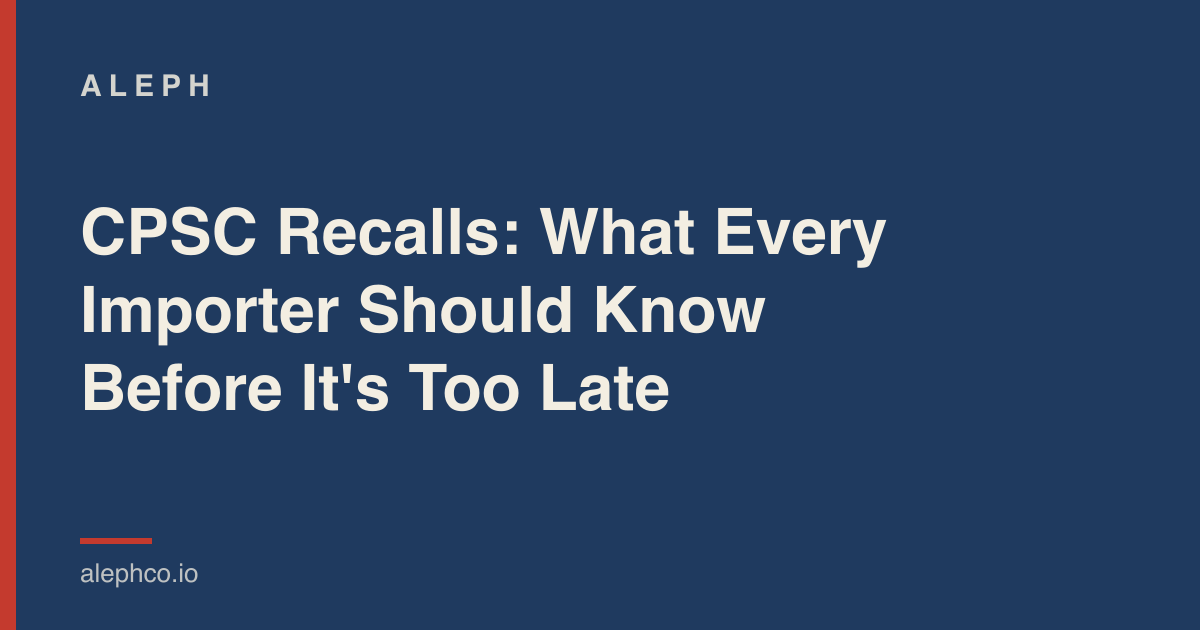
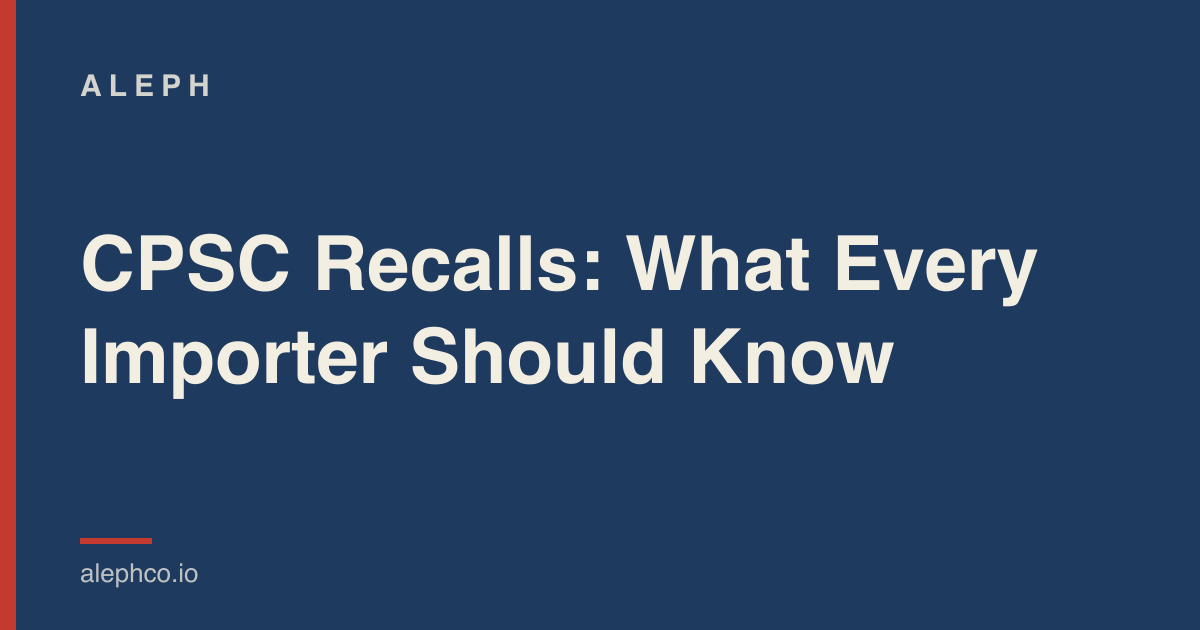
fix(blog): wire the 12 legacy posts to their own share cards
The cards already existed. build-og-cards.mjs was written in session 110
for exactly this problem, and its own header records the symptom:

    $ grep -h 'property="og:image"' blog/*.html | sort | uniq -c
      13   <meta property="og:image" content=".../img/og-default.png">

It rendered a card for all 37 posts. Then only the ONE generated post was
ever wired to its card, and the other twelve kept the shared default for
another six sessions. The asset existed, the problem was solved, and the
fix was never applied — and nothing about that was visible from the
script, which reported success both times it ran.

Every LinkedIn, Slack and Twitter preview of the twelve RANKED posts has
been the same generic image this whole time. That is a distribution
problem, not a decoration one.

⚠ FOUR CARDS WERE STALE and had to be re-rendered first. A legacy card is
generated FROM THE POST'S <title>, and the previous commit shortened four
of those for SERP limits — so cpsc-recalls, multi-regulation,
product-compliance-for-amazon-sellers and manifest-design-system were all
advertising headlines the page no longer carries. That coupling is
invisible unless you open the PNG, so it is now written down beside the
guard.

The guard asserts every post's og:image ends in /img/blog/<slug>.png.
Verified by pointing one post back at og-default — it reports the filename
and names the card it should be using.

Claude-Session: https://claude.ai/code/session_01L9pCtTSJV7YBBgyHj2U2vZ

Changed region(s): [[0.0617, 0.3317, 0.8633, 0.6635]]

diff --git a/blog/manifest-design-system.html b/blog/manifest-design-system.html
@@ -13,7 +13,7 @@
   <meta property="og:description" content="We rebuilt every page of Aleph around a design system inspired by customs forms and shipping receipts. Here's why compliance software should look institutional.">
   <meta property="og:url" content="https://www.alephco.io/blog/manifest-design-system.html">
   <meta property="og:site_name" content="Aleph">
-  <meta property="og:image" content="https://www.alephco.io/img/og-default.png">
+  <meta property="og:image" content="https://www.alephco.io/img/blog/manifest-design-system.png">
   <meta property="og:image:width" content="1200">
   <meta property="og:image:height" content="630">
   <meta property="article:published_time" content="2026-05-05T12:00:00Z">
@@ -23,7 +23,7 @@
   <meta name="twitter:card" content="summary_large_image">
   <meta name="twitter:title" content="The Manifest Redesign: Why We Made Aleph Look Like a Customs Form">
   <meta name="twitter:description" content="We rebuilt every page of Aleph around a design system inspired by customs forms and shipping receipts. Here's why compliance software should look institutional.">
-  <meta name="twitter:image" content="https://www.alephco.io/img/og-default.png">
+  <meta name="twitter:image" content="https://www.alephco.io/img/blog/manifest-design-system.png">
 
   <!-- Structured Data -->
   <script type="application/ld+json">

diff --git a/blog/product-compliance-for-amazon-sellers.html b/blog/product-compliance-for-amazon-sellers.html
@@ -13,7 +13,7 @@
   <meta property="og:description" content="What FBA and FBM sellers need for Amazon compliance — CPCs, Prop 65 warnings, SDS sheets — and how to avoid listing rejections.">
   <meta property="og:url" content="https://www.alephco.io/blog/product-compliance-for-amazon-sellers.html">
   <meta property="og:site_name" content="Aleph">
-  <meta property="og:image" content="https://www.alephco.io/img/og-default.png">
+  <meta property="og:image" content="https://www.alephco.io/img/blog/product-compliance-for-amazon-sellers.png">
   <meta property="og:image:width" content="1200">
   <meta property="og:image:height" content="630">
   <meta property="article:published_time" content="2026-06-02T12:00:00Z">
@@ -23,7 +23,7 @@
   <meta name="twitter:card" content="summary_large_image">
   <meta name="twitter:title" content="Product Compliance for Amazon Sellers: Documents You Actually Need (2026)">
   <meta name="twitter:description" content="What FBA and FBM sellers need for Amazon compliance — CPCs, Prop 65 warnings, SDS sheets — and how to avoid listing rejections.">
-  <meta name="twitter:image" content="https://www.alephco.io/img/og-default.png">
+  <meta name="twitter:image" content="https://www.alephco.io/img/blog/product-compliance-for-amazon-sellers.png">
 
   <!-- Structured Data -->
   <script type="application/ld+json">

diff --git a/blog/multi-regulation-compliance-framework.html b/blog/multi-regulation-compliance-framework.html
@@ -13,7 +13,7 @@
   <meta property="og:description" content="Same product, different rules in 15+ states. A practical framework for managing multi-state compliance, from PFAS to packaging laws.">
   <meta property="og:url" content="https://www.alephco.io/blog/multi-regulation-compliance-framework.html">
   <meta property="og:site_name" content="Aleph">
-  <meta property="og:image" content="https://www.alephco.io/img/og-default.png">
+  <meta property="og:image" content="https://www.alephco.io/img/blog/multi-regulation-compliance-framework.png">
   <meta property="og:image:width" content="1200">
   <meta property="og:image:height" content="630">
   <meta property="article:published_time" content="2026-06-09T12:00:00Z">
@@ -23,7 +23,7 @@
   <meta name="twitter:card" content="summary_large_image">
   <meta name="twitter:title" content="Multi-State Product Compliance: A Framework for US Importers (2026)">
   <meta name="twitter:description" content="Same product, different rules in 15+ states. A practical framework for managing multi-state compliance, from PFAS to packaging laws.">
-  <meta name="twitter:image" content="https://www.alephco.io/img/og-default.png">
+  <meta name="twitter:image" content="https://www.alephco.io/img/blog/multi-regulation-compliance-framework.png">
 
   <!-- Structured Data -->
   <script type="application/ld+json">

diff --git a/blog/spreadsheets-failing-compliance.html b/blog/spreadsheets-failing-compliance.html
@@ -13,7 +13,7 @@
   <meta property="og:description" content="Spreadsheets can't track document expiry, generate certificates, or cite the exact regulation behind each requirement. See what breaks first.">
   <meta property="og:url" content="https://www.alephco.io/blog/spreadsheets-failing-compliance.html">
   <meta property="og:site_name" content="Aleph">
-  <meta property="og:image" content="https://www.alephco.io/img/og-default.png">
+  <meta property="og:image" content="https://www.alephco.io/img/blog/spreadsheets-failing-compliance.png">
   <meta property="og:image:width" content="1200">
   <meta property="og:image:height" content="630">
   <meta property="article:published_time" content="2026-05-12T12:00:00Z">
@@ -23,7 +23,7 @@
   <meta name="twitter:card" content="summary_large_image">
   <meta name="twitter:title" content="Why Spreadsheets Fail Product Compliance Teams | Aleph">
   <meta name="twitter:description" content="Spreadsheets can't track document expiry, generate certificates, or cite the exact regulation behind each requirement. See what breaks first.">
-  <meta name="twitter:image" content="https://www.alephco.io/img/og-default.png">
+  <meta name="twitter:image" content="https://www.alephco.io/img/blog/spreadsheets-failing-compliance.png">
 
   <!-- Structured Data -->
   <script type="application/ld+json">

diff --git a/blog/fsvp-guide-for-importers.html b/blog/fsvp-guide-for-importers.html
@@ -13,7 +13,7 @@
   <meta property="og:description" content="What the FDA's Foreign Supplier Verification Program requires from food importers. Plain-language guide to compliance, inspections, and records.">
   <meta property="og:url" content="https://www.alephco.io/blog/fsvp-guide-for-importers.html">
   <meta property="og:site_name" content="Aleph">
-  <meta property="og:image" content="https://www.alephco.io/img/og-default.png">
+  <meta property="og:image" content="https://www.alephco.io/img/blog/fsvp-guide-for-importers.png">
   <meta property="og:image:width" content="1200">
   <meta property="og:image:height" content="630">
   <meta property="article:published_time" content="2026-04-14T12:00:00Z">
@@ -23,7 +23,7 @@
   <meta name="twitter:card" content="summary_large_image">
   <meta name="twitter:title" content="FSVP Requirements: A Guide for US Food Importers (2026)">
   <meta name="twitter:description" content="What the FDA's Foreign Supplier Verification Program requires from food importers. Plain-language guide to compliance, inspections, and records.">
-  <meta name="twitter:image" content="https://www.alephco.io/img/og-default.png">
+  <meta name="twitter:image" content="https://www.alephco.io/img/blog/fsvp-guide-for-importers.png">
 
   <!-- Structured Data -->
   <script type="application/ld+json">

diff --git a/blog/fsvp-vs-haccp.html b/blog/fsvp-vs-haccp.html
@@ -13,7 +13,7 @@
   <meta property="og:description" content="FSVP and HACCP are not the same thing — and having one doesn't exempt you from the other. Here's how they work together and what FDA expects from importers.">
   <meta property="og:url" content="https://www.alephco.io/blog/fsvp-vs-haccp.html">
   <meta property="og:site_name" content="Aleph">
-  <meta property="og:image" content="https://www.alephco.io/img/og-default.png">
+  <meta property="og:image" content="https://www.alephco.io/img/blog/fsvp-vs-haccp.png">
   <meta property="og:image:width" content="1200">
   <meta property="og:image:height" content="630">
   <meta property="article:published_time" content="2026-06-16T12:00:00Z">
@@ -23,7 +23,7 @@
   <meta name="twitter:card" content="summary_large_image">
   <meta name="twitter:title" content="FSVP vs HACCP: What Food Importers Need to Understand (2026)">
   <meta name="twitter:description" content="FSVP and HACCP are not the same thing — and having one doesn't exempt you from the other. Here's how they work together and what FDA expects from importers.">
-  <meta name="twitter:image" content="https://www.alephco.io/img/og-default.png">
+  <meta name="twitter:image" content="https://www.alephco.io/img/blog/fsvp-vs-haccp.png">
 
   <!-- Structured Data -->
   <script type="application/ld+json">

diff --git a/blog/cpsc-recalls-for-importers.html b/blog/cpsc-recalls-for-importers.html
@@ -13,7 +13,7 @@
   <meta property="og:description" content="CPSC recalls hit importers harder than manufacturers. Learn the recall process, your legal liability, and how to protect your business.">
   <meta property="og:url" content="https://www.alephco.io/blog/cpsc-recalls-for-importers.html">
   <meta property="og:site_name" content="Aleph">
-  <meta property="og:image" content="https://www.alephco.io/img/og-default.png">
+  <meta property="og:image" content="https://www.alephco.io/img/blog/cpsc-recalls-for-importers.png">
   <meta property="og:image:width" content="1200">
   <meta property="og:image:height" content="630">
   <meta property="article:published_time" content="2026-05-19T12:00:00Z">
@@ -23,7 +23,7 @@
   <meta name="twitter:card" content="summary_large_image">
   <meta name="twitter:title" content="CPSC Recalls: What Every Importer Should Know Before It's Too Late">
   <meta name="twitter:description" content="CPSC recalls hit importers harder than manufacturers. Learn the recall process, your legal liability, and how to protect your business.">
-  <meta name="twitter:image" content="https://www.alephco.io/img/og-default.png">
+  <meta name="twitter:image" content="https://www.alephco.io/img/blog/cpsc-recalls-for-importers.png">
 
   <!-- Structured Data -->
   <script type="application/ld+json">

diff --git a/blog/how-to-choose-testing-lab.html b/blog/how-to-choose-testing-lab.html
@@ -13,7 +13,7 @@
   <meta property="og:description" content="How to pick the right compliance testing lab for your products. Accreditations, specializations, cost, and a checklist before you send samples.">
   <meta property="og:url" content="https://www.alephco.io/blog/how-to-choose-testing-lab.html">
   <meta property="og:site_name" content="Aleph">
-  <meta property="og:image" content="https://www.alephco.io/img/og-default.png">
+  <meta property="og:image" content="https://www.alephco.io/img/blog/how-to-choose-testing-lab.png">
   <meta property="og:image:width" content="1200">
   <meta property="og:image:height" content="630">
   <meta property="article:published_time" content="2026-05-26T12:00:00Z">
@@ -23,7 +23,7 @@
   <meta name="twitter:card" content="summary_large_image">
   <meta name="twitter:title" content="How to Choose a Testing Lab (Without Getting Burned)">
   <meta name="twitter:description" content="How to pick the right compliance testing lab for your products. Accreditations, specializations, cost, and a checklist before you send samples.">
-  <meta name="twitter:image" content="https://www.alephco.io/img/og-default.png">
+  <meta name="twitter:image" content="https://www.alephco.io/img/blog/how-to-choose-testing-lab.png">
 
   <!-- Structured Data -->
   <script type="application/ld+json">

diff --git a/blog/pfas-regulations-guide.html b/blog/pfas-regulations-guide.html
@@ -13,7 +13,7 @@
   <meta property="og:description" content="15+ states now regulate PFAS in consumer products. Guide for importers on disclosure rules, affected categories, and compliance tracking.">
   <meta property="og:url" content="https://www.alephco.io/blog/pfas-regulations-guide.html">
   <meta property="og:site_name" content="Aleph">
-  <meta property="og:image" content="https://www.alephco.io/img/og-default.png">
+  <meta property="og:image" content="https://www.alephco.io/img/blog/pfas-regulations-guide.png">
   <meta property="og:image:width" content="1200">
   <meta property="og:image:height" content="630">
   <meta property="article:published_time" content="2026-05-05T12:00:00Z">
@@ -23,7 +23,7 @@
   <meta name="twitter:card" content="summary_large_image">
   <meta name="twitter:title" content="PFAS Regulations for Importers: State Laws and Compliance">
   <meta name="twitter:description" content="15+ states now regulate PFAS in consumer products. Guide for importers on disclosure rules, affected categories, and compliance tracking.">
-  <meta name="twitter:image" content="https://www.alephco.io/img/og-default.png">
+  <meta name="twitter:image" content="https://www.alephco.io/img/blog/pfas-regulations-guide.png">
 
   <!-- Structured Data -->
   <script type="application/ld+json">

diff --git a/blog/cpc-certificate-guide.html b/blog/cpc-certificate-guide.html
@@ -13,7 +13,7 @@
   <meta property="og:description" content="Step-by-step guide to CPSIA Children's Product Certificates. What's required, which tests you need, and how to generate a valid CPC.">
   <meta property="og:url" content="https://www.alephco.io/blog/cpc-certificate-guide.html">
   <meta property="og:site_name" content="Aleph">
-  <meta property="og:image" content="https://www.alephco.io/img/og-default.png">
+  <meta property="og:image" content="https://www.alephco.io/img/blog/cpc-certificate-guide.png">
   <meta property="og:image:width" content="1200">
   <meta property="og:image:height" content="630">
   <meta property="article:published_time" content="2026-04-21T12:00:00Z">
@@ -23,7 +23,7 @@
   <meta name="twitter:card" content="summary_large_image">
   <meta name="twitter:title" content="Children's Product Certificate (CPC): Importer Guide 2026">
   <meta name="twitter:description" content="Step-by-step guide to CPSIA Children's Product Certificates. What's required, which tests you need, and how to generate a valid CPC.">
-  <meta name="twitter:image" content="https://www.alephco.io/img/og-default.png">
+  <meta name="twitter:image" content="https://www.alephco.io/img/blog/cpc-certificate-guide.png">
 
   <!-- Structured Data -->
   <script type="application/ld+json">

diff --git a/blog/why-i-built-aleph.html b/blog/why-i-built-aleph.html
@@ -13,7 +13,7 @@
   <meta property="og:description" content="The compliance tools for importers are painfully generic or absurdly expensive. Here's why I built something better.">
   <meta property="og:url" content="https://www.alephco.io/blog/why-i-built-aleph.html">
   <meta property="og:site_name" content="Aleph">
-  <meta property="og:image" content="https://www.alephco.io/img/og-default.png">
+  <meta property="og:image" content="https://www.alephco.io/img/blog/why-i-built-aleph.png">
   <meta property="og:image:width" content="1200">
   <meta property="og:image:height" content="630">
   <meta property="article:published_time" content="2026-04-10T12:00:00Z">
@@ -23,7 +23,7 @@
   <meta name="twitter:card" content="summary_large_image">
   <meta name="twitter:title" content="Why I Built Aleph | Import Compliance Software">
   <meta name="twitter:description" content="The compliance tools for importers are painfully generic or absurdly expensive. Here's why I built something better.">
-  <meta name="twitter:image" content="https://www.alephco.io/img/og-default.png">
+  <meta name="twitter:image" content="https://www.alephco.io/img/blog/why-i-built-aleph.png">
 
   <!-- Structured Data -->
   <script type="application/ld+json">

diff --git a/blog/prop-65-warnings-guide.html b/blog/prop-65-warnings-guide.html
@@ -13,7 +13,7 @@
   <meta property="og:description" content="Decision guide for importers: when Prop 65 warnings apply, safe harbor text, and label requirements.">
   <meta property="og:url" content="https://www.alephco.io/blog/prop-65-warnings-guide.html">
   <meta property="og:site_name" content="Aleph">
-  <meta property="og:image" content="https://www.alephco.io/img/og-default.png">
+  <meta property="og:image" content="https://www.alephco.io/img/blog/prop-65-warnings-guide.png">
   <meta property="og:image:width" content="1200">
   <meta property="og:image:height" content="630">
   <meta property="article:published_time" content="2026-04-28T12:00:00Z">
@@ -23,7 +23,7 @@
   <meta name="twitter:card" content="summary_large_image">
   <meta name="twitter:title" content="Prop 65 Warning Requirements: Do You Need One? (2026)">
   <meta name="twitter:description" content="Decision guide for importers: when Prop 65 warnings apply, safe harbor text, and label requirements.">
-  <meta name="twitter:image" content="https://www.alephco.io/img/og-default.png">
+  <meta name="twitter:image" content="https://www.alephco.io/img/blog/prop-65-warnings-guide.png">
 
   <!-- Structured Data -->
   <script type="application/ld+json">
